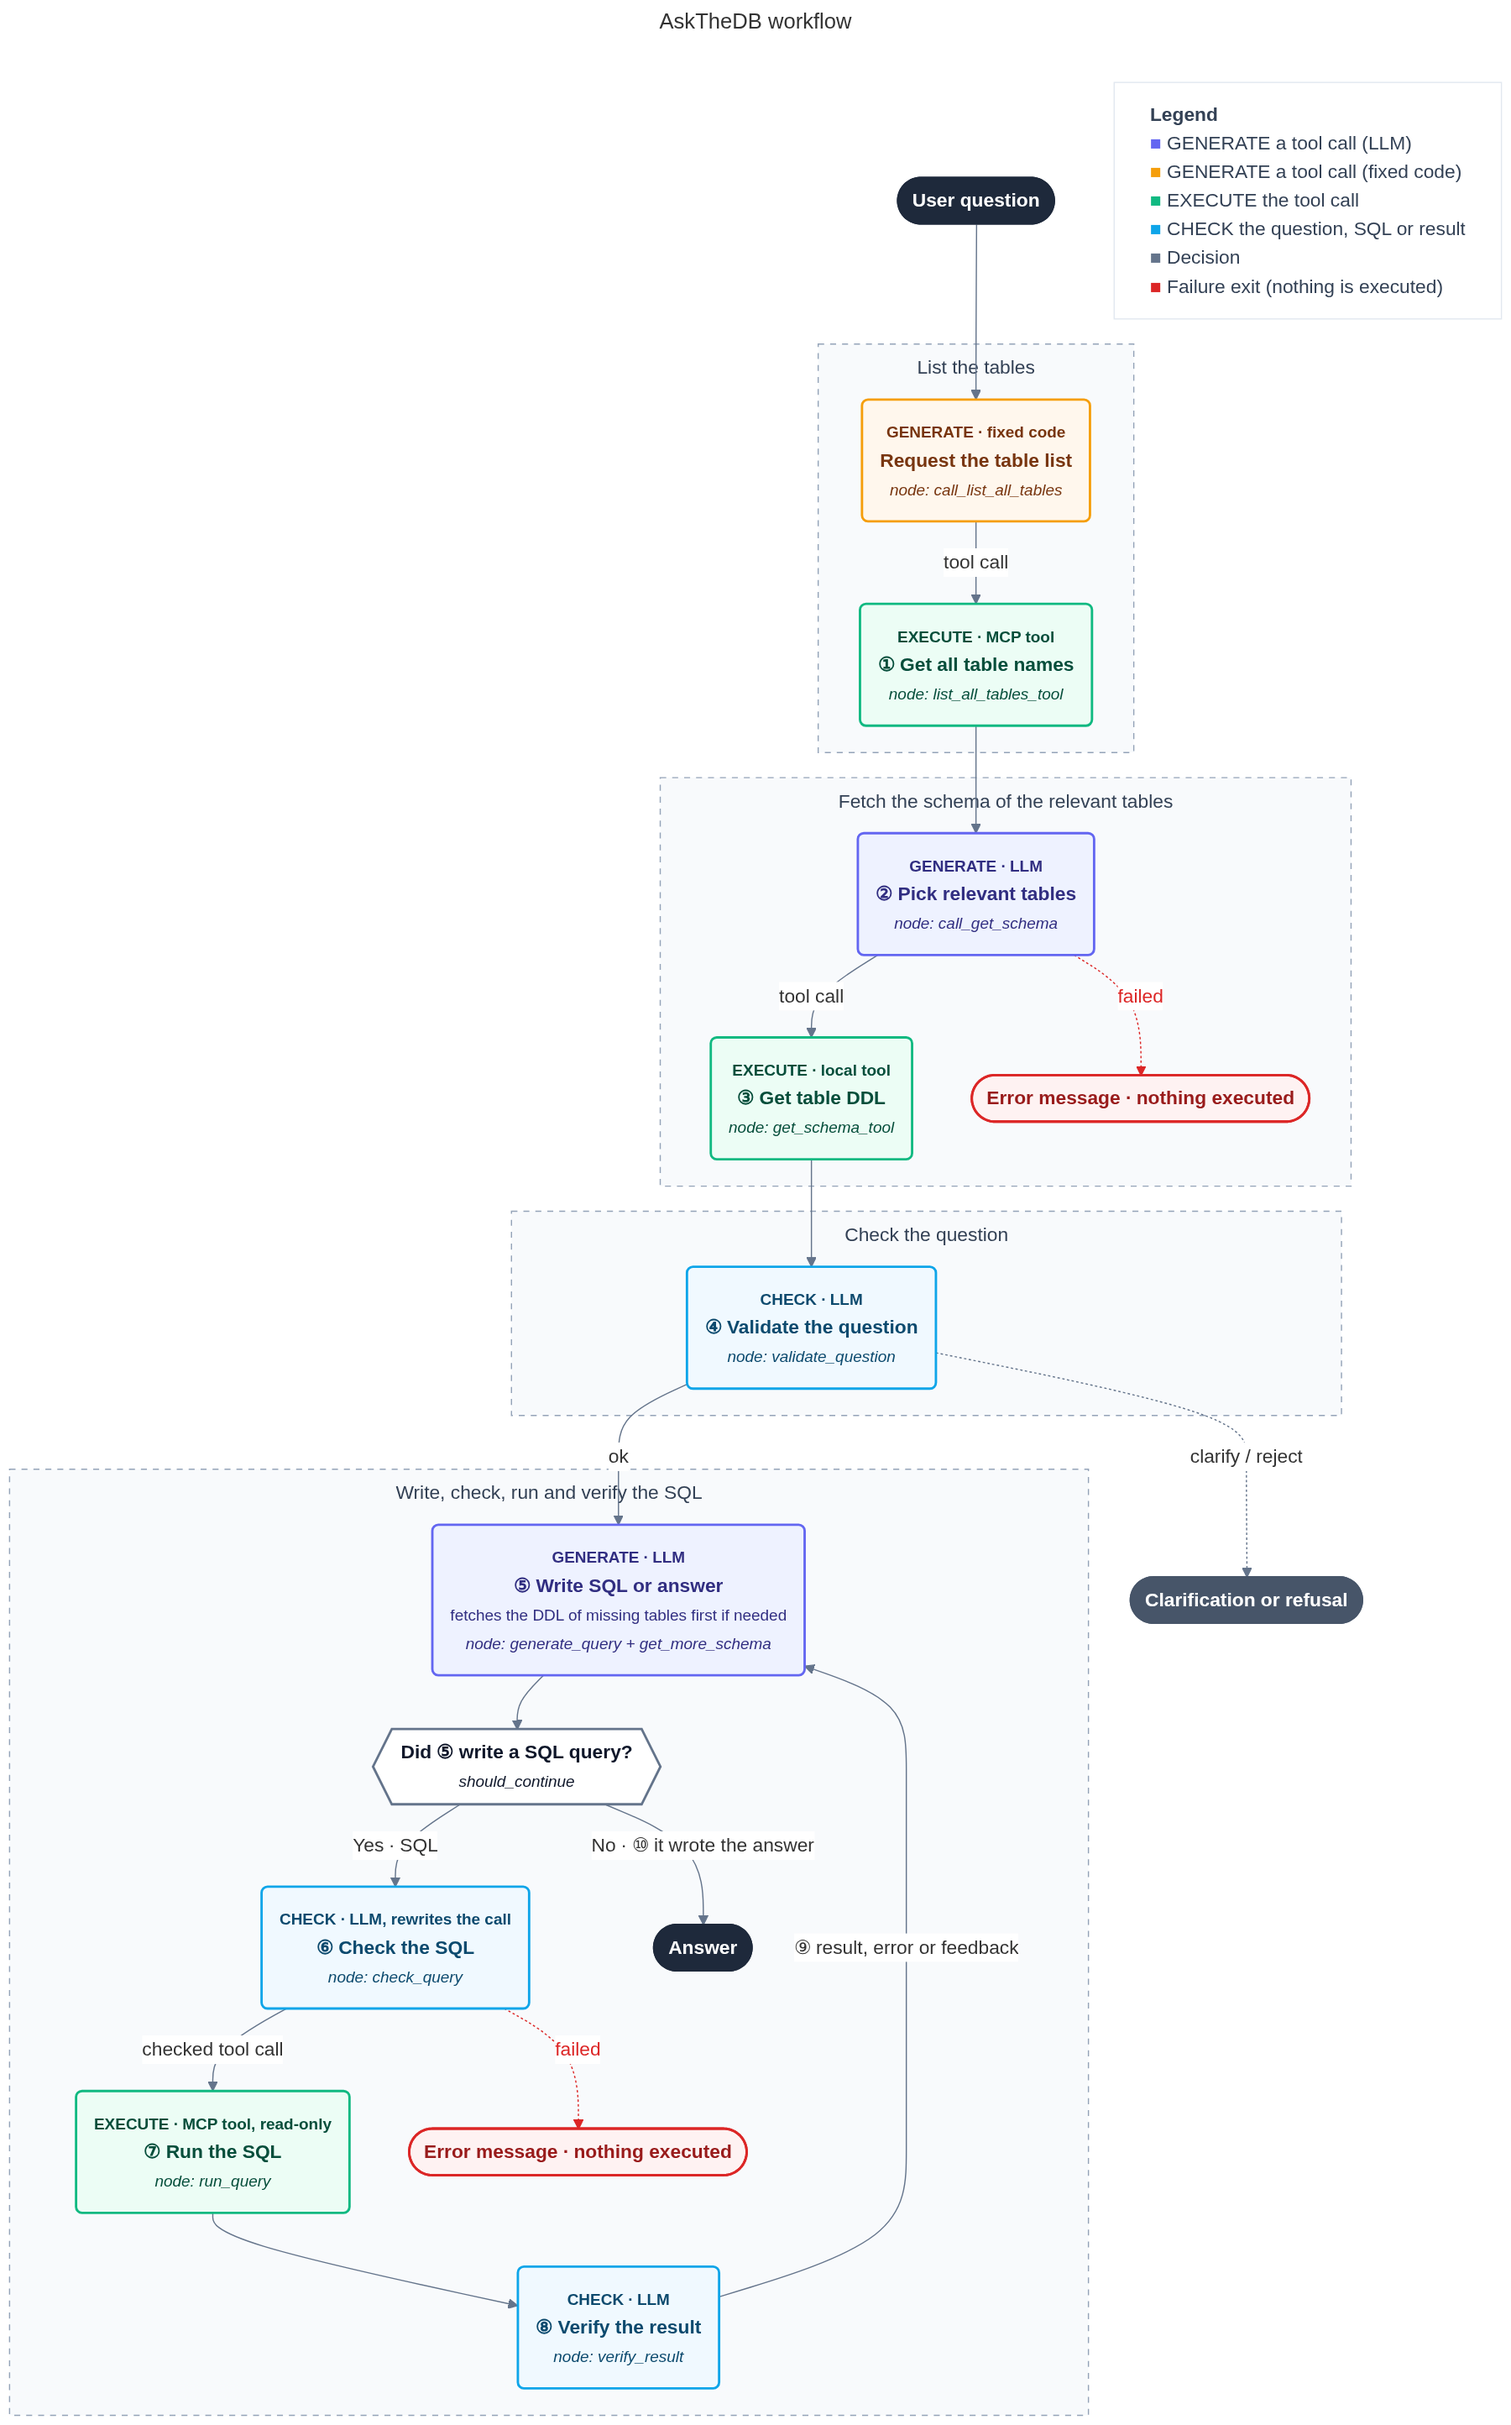
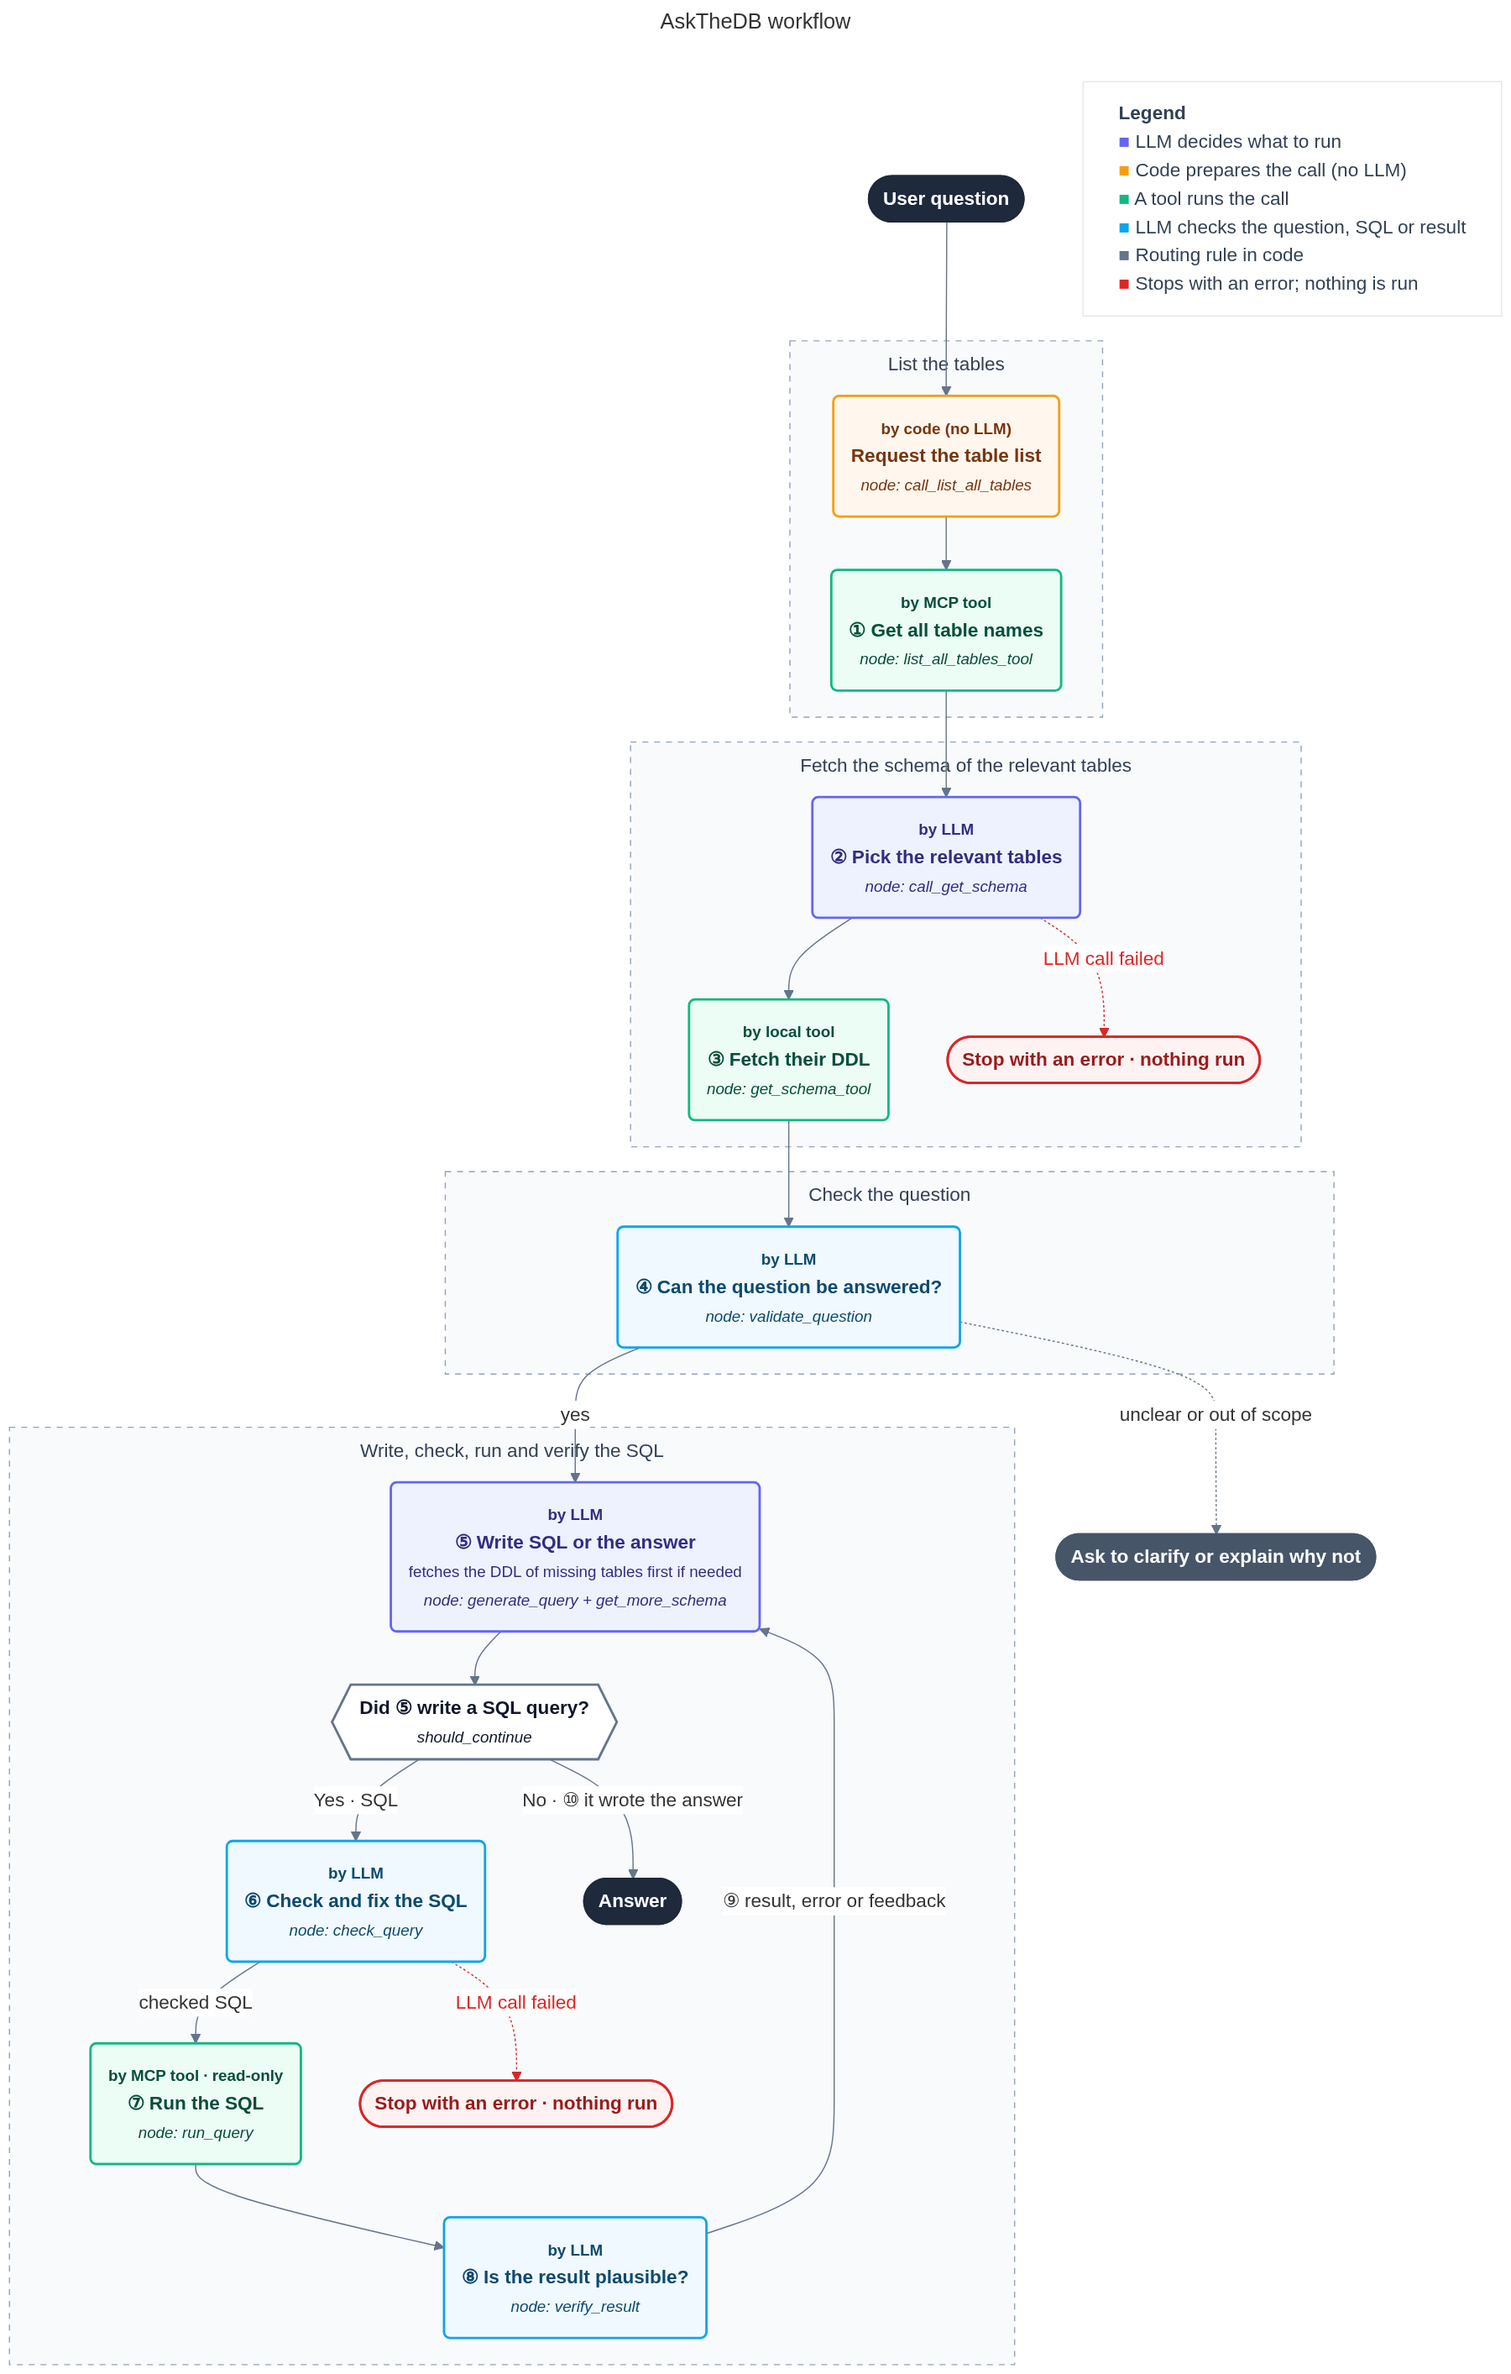
Make the workflow diagram easier to read
- Each box now says who does the step (by LLM, by code, by MCP tool, by local
  tool) instead of GENERATE / EXECUTE / CHECK, and the colors and legend say the
  role in plain words (decides, runs, checks)
- Clearer titles: the checks are questions ("Can the question be answered?",
  "Is the result plausible?"), "Check and fix the SQL", "Fetch their DDL"
- Plainer edge labels and endings: no "tool call" labels, "checked SQL",
  "LLM call failed", "Stop with an error · nothing run",
  "Ask to clarify or explain why not"

diff --git a/sql_graph/draw_png.py b/sql_graph/draw_png.py
@@ -11,15 +11,15 @@ TITLE = 'AskTheDB workflow'
 # gen_llm=generates a tool call with the LLM, execute=runs a tool call, check=LLM judges something
 NODE_META = {
     '__start__': ('User question', 'terminal', None, None),
-    'call_list_all_tables': ('Request the table list', 'gen_code', 'tables', 'GENERATE · fixed code'),
-    'list_all_tables_tool': ('① Get all table names', 'execute', 'tables', 'EXECUTE · MCP tool'),
-    'call_get_schema': ('② Pick relevant tables', 'gen_llm', 'schema', 'GENERATE · LLM'),
-    'get_schema_tool': ('③ Get table DDL', 'execute', 'schema', 'EXECUTE · local tool'),
-    'validate_question': ('④ Validate the question', 'check', 'question', 'CHECK · LLM'),
-    'generate_query': ('⑤ Write SQL or answer', 'gen_llm', 'sql', 'GENERATE · LLM'),
-    'check_query': ('⑥ Check the SQL', 'check', 'sql', 'CHECK · LLM, rewrites the call'),
-    'run_query': ('⑦ Run the SQL', 'execute', 'sql', 'EXECUTE · MCP tool, read-only'),
-    'verify_result': ('⑧ Verify the result', 'check', 'sql', 'CHECK · LLM'),
+    'call_list_all_tables': ('Request the table list', 'gen_code', 'tables', 'by code (no LLM)'),
+    'list_all_tables_tool': ('① Get all table names', 'execute', 'tables', 'by MCP tool'),
+    'call_get_schema': ('② Pick the relevant tables', 'gen_llm', 'schema', 'by LLM'),
+    'get_schema_tool': ('③ Fetch their DDL', 'execute', 'schema', 'by local tool'),
+    'validate_question': ('④ Can the question be answered?', 'check', 'question', 'by LLM'),
+    'generate_query': ('⑤ Write SQL or the answer', 'gen_llm', 'sql', 'by LLM'),
+    'check_query': ('⑥ Check and fix the SQL', 'check', 'sql', 'by LLM'),
+    'run_query': ('⑦ Run the SQL', 'execute', 'sql', 'by MCP tool · read-only'),
+    'verify_result': ('⑧ Is the result plausible?', 'check', 'sql', 'by LLM'),
 }
 
 # Nodes drawn as part of another node instead of as a box of their own, to keep the diagram
@@ -33,9 +33,9 @@ MERGED_NODES = {
 # the step that leads to it, so no exit line has to cross the diagram: ending -> (title, style, group)
 ENDINGS = {
     'end_answer': ('Answer', 'terminal', 'sql'),
-    'end_clarify': ('Clarification or refusal', 'ending_clarify', None),
-    'end_error_schema': ('Error message · nothing executed', 'ending_error', 'schema'),
-    'end_error_sql': ('Error message · nothing executed', 'ending_error', 'sql'),
+    'end_clarify': ('Ask to clarify or explain why not', 'ending_clarify', None),
+    'end_error_schema': ('Stop with an error · nothing run', 'ending_error', 'schema'),
+    'end_error_sql': ('Stop with an error · nothing run', 'ending_error', 'sql'),
 }
 # Which ending each exit leads to (any other exit is a failed generation in the SQL loop)
 ENDING_FOR_SOURCE = {
@@ -57,14 +57,12 @@ ROUTES = {
 
 # Labels on edges: (source, target) -> label ('__end__' stands for the ending of that source)
 EDGE_LABELS = {
-    ('call_list_all_tables', 'list_all_tables_tool'): 'tool call',
-    ('call_get_schema', 'get_schema_tool'): 'tool call',
-    ('check_query', 'run_query'): 'checked tool call',
+    ('check_query', 'run_query'): 'checked SQL',
     ('verify_result', 'generate_query'): '⑨ result, error or feedback',
-    ('validate_question', 'generate_query'): 'ok',
-    ('validate_question', '__end__'): 'clarify / reject',
-    ('call_get_schema', '__end__'): 'failed',
-    ('check_query', '__end__'): 'failed',
+    ('validate_question', 'generate_query'): 'yes',
+    ('validate_question', '__end__'): 'unclear or out of scope',
+    ('call_get_schema', '__end__'): 'LLM call failed',
+    ('check_query', '__end__'): 'LLM call failed',
 }
 
 # Each frame is one stage of the workflow
@@ -101,12 +99,12 @@ EDGE_ORDER = [
 ]
 
 LEGEND = [
-    ('#6366F1', 'GENERATE a tool call (LLM)'),
-    ('#F59E0B', 'GENERATE a tool call (fixed code)'),
-    ('#10B981', 'EXECUTE the tool call'),
-    ('#0EA5E9', 'CHECK the question, SQL or result'),
-    ('#64748B', 'Decision'),
-    ('#DC2626', 'Failure exit (nothing is executed)'),
+    ('#6366F1', 'LLM decides what to run'),
+    ('#F59E0B', 'Code prepares the call (no LLM)'),
+    ('#10B981', 'A tool runs the call'),
+    ('#0EA5E9', 'LLM checks the question, SQL or result'),
+    ('#64748B', 'Routing rule in code'),
+    ('#DC2626', 'Stops with an error; nothing is run'),
 ]
 
 STYLES = '''
